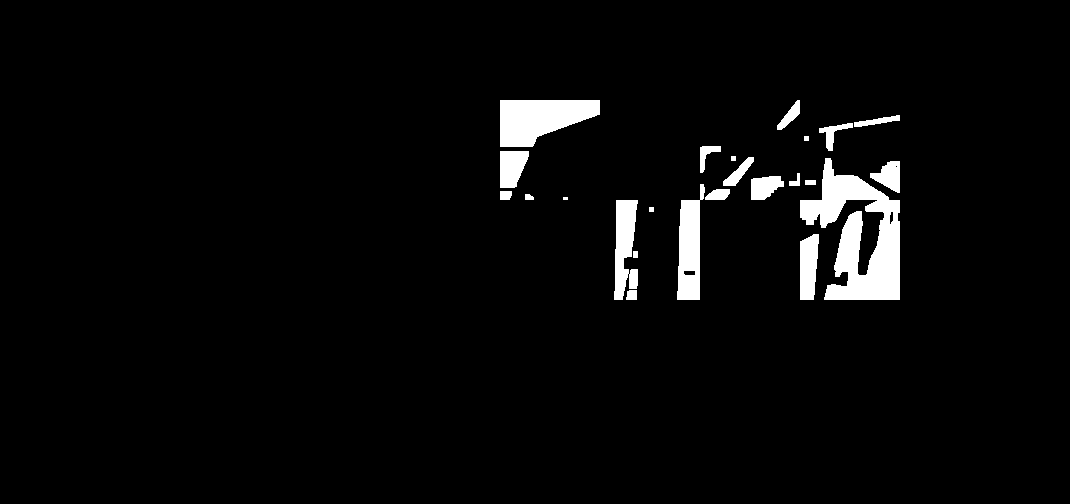
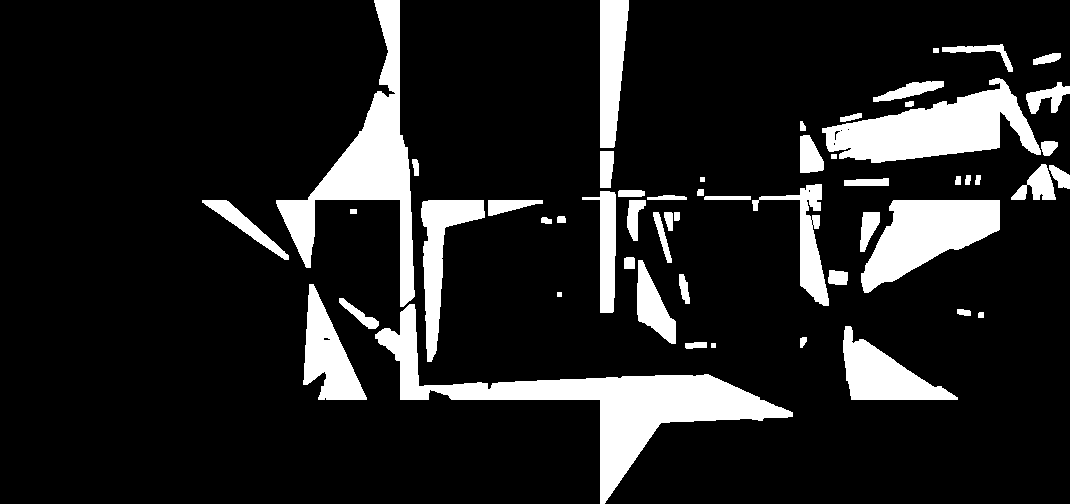
final commit

Changed region(s): [[0.185, 0.0, 1.0, 1.0], [0.771, 0.6548, 0.8944, 0.8036], [0.8944, 0.5952, 0.9252, 0.625]]

diff --git a/saize/final_saize.py b/saize/final_saize.py
@@ -1,76 +1,58 @@
-import numpy as np
 import cv2
-from matplotlib import pyplot as plt
-from utlis.show_image import show_1Img, show_2Img
-from utlis.clahe import apply_clahe_and_plot
-from ni import nitika_image
+import numpy as np
 
-def tirm_image(img, trim_per=10):
-    hei, wid = img.shape[:2]
-    trim_hei = int(hei * trim_per / 100)
-    trim_wid = int(wid * trim_per / 100)
-    trimmed_img = img[trim_hei: hei - trim_hei, trim_wid:wid - trim_wid]
-    return trimmed_img
+def local_feature_matching(img1, img2, grid_size=(2, 2)):
+    # SIFT特徴量抽出器の初期化
+    sift = cv2.SIFT_create()
 
-# --- 設定 ---
-image_path1 = r'img/image4.png'
-image_path2 = r'img/image3.png'
-block_size = 100
-MIN_MATCH_COUNT = 5
+    # 画像をグリッドに分割
+    h1, w1 = img1.shape[:2]
+    h2, w2 = img2.shape[:2]
+    cell_h1, cell_w1 = h1 // grid_size[0], w1 // grid_size[1]
+    cell_h2, cell_w2 = h2 // grid_size[0], w2 // grid_size[1]
 
-# --- 関数：特徴量マッチングと差分画像生成 ---
-def detect_and_diff(image1, image2, akaze):
-    h, w, _ = image1.shape
-    difference = np.zeros_like(image1)
-    for y in range(0, h, block_size):
-        for x in range(0, w, block_size):
-            block_h = min(block_size, h - y)
-            block_w = min(block_size, w - x)
-            block1 = image1[y:y + block_h, x:x + block_w]
-            block2 = image2[y:y + block_h, x:x + block_w]
+    all_matches = []
+    all_kp1 = []
+    all_kp2 = []
 
-            kp1, des1 = akaze.detectAndCompute(block1, None)
-            kp2, des2 = akaze.detectAndCompute(block2, None)
+    for i in range(grid_size[0]):
+        for j in range(grid_size[1]):
+            # 各グリッドセルの領域を定義
+            roi1 = img1[i*cell_h1:(i+1)*cell_h1, j*cell_w1:(j+1)*cell_w1]
+            roi2 = img2[i*cell_h2:(i+1)*cell_h2, j*cell_w2:(j+1)*cell_w2]
 
-            if des1 is not None and des2 is not None:
-                bf = cv2.BFMatcher(cv2.NORM_HAMMING, crossCheck=True)
-                matches = bf.match(des1, des2)
-                matches = sorted(matches, key=lambda x: x.distance)
-                good_matches = matches[:10]
+            # 各領域で特徴点と特徴量を抽出
+            kp1, des1 = sift.detectAndCompute(roi1, None)
+            kp2, des2 = sift.detectAndCompute(roi2, None)
 
-                if len(good_matches) >= MIN_MATCH_COUNT:
-                    src_pts = np.float32([kp1[m.queryIdx].pt for m in good_matches]).reshape(-1, 1, 2)
-                    dst_pts = np.float32([kp2[m.trainIdx].pt for m in good_matches]).reshape(-1, 1, 2)
-                    M, mask = cv2.findHomography(dst_pts, src_pts, cv2.RANSAC, 5.0)
-                    image2_aligned = cv2.warpPerspective(block2, M, (block_w, block_h))
-                    diff_block = cv2.absdiff(block1, image2_aligned)
-                    diff_block = cv2.cvtColor(diff_block, cv2.COLOR_BGR2GRAY)
-                    ret, diff_block = cv2.threshold(diff_block, 0, 255, cv2.THRESH_BINARY + cv2.THRESH_OTSU)
-                    kernel = np.ones((5, 5), np.uint8)
-                    diff_block = cv2.erode(diff_block, kernel, iterations=1)
-                    diff_block = cv2.dilate(diff_block, kernel, iterations=1)
-                    diff_block = cv2.cvtColor(diff_block, cv2.COLOR_GRAY2BGR)
-                    difference[y:y + block_h, x:x + block_w] = diff_block
-                else :
-                    print('good no')
-    return difference
+            # 特徴量マッチング
+            bf = cv2.BFMatcher()
+            matches = bf.knnMatch(des1, des2, k=2)
 
-# --- メイン処理 ---
+            # Lowe's ratio testを適用
+            good_matches = []
+            for m, n in matches:
+                if m.distance < 0.75 * n.distance:
+                    good_matches.append(m)
 
-# 画像を読み込む
-image1 = cv2.imread(image_path1)
-image2 = cv2.imread(image_path2)
+            # マッチング結果を全体のリストに追加
+            all_matches.extend(good_matches)
+            all_kp1.extend(kp1)
+            all_kp2.extend(kp2)
 
-# 元の AKAZE パラメータ
-akaze_default = cv2.AKAZE_create()
-difference_default = detect_and_diff(image1.copy(), image2.copy(), akaze_default)
-cv2.imwrite("difference_default.png", difference_default)
+    # マッチング結果の描画 (ループの外側で実行)
+    img_matches = cv2.drawMatches(img1, all_kp1, img2, all_kp2, all_matches, None, flags=cv2.DrawMatchesFlags_NOT_DRAW_SINGLE_POINTS)
 
-# 調整後の AKAZE パラメータ
-akaze_tuned = cv2.AKAZE_create(threshold=0.0001, nOctaves=5, nOctaveLayers=4)
-difference_tuned = detect_and_diff(image1.copy(), image2.copy(), akaze_tuned)
-cv2.imwrite("difference_tuned.png", difference_tuned)
+    return all_matches, img_matches
 
-# 結果表示 (コメントアウトを外して使用)
-show_1Img(difference_default, "Default AKAZE")
-show_1Img(difference_tuned, "Tuned AKAZE")
+# 画像の読み込み
+img1 = cv2.imread('img/image4.png', cv2.IMREAD_GRAYSCALE)
+img2 = cv2.imread('img/image3.png', cv2.IMREAD_GRAYSCALE)
+
+# 局所領域でのマッチング実行
+matches, img_matches = local_feature_matching(img1, img2)
+
+# 結果の表示
+cv2.imshow('Matches', img_matches)
+cv2.waitKey(0)
+cv2.destroyAllWindows()

diff --git a/saize/mapping_color.py b/saize/mapping_color.py
@@ -17,14 +17,14 @@ w_min = min(w_1, w_2)
 image1 = image1[0:h_min, 0:w_min]
 image2 = image2[0:h_min, 0:w_min]
 
-# グレースケールに変換
+# グレースケールに変換 (全体マッチング用)
 gray1 = cv2.cvtColor(image1, cv2.COLOR_BGR2GRAY)
 gray2 = cv2.cvtColor(image2, cv2.COLOR_BGR2GRAY)
 
 # CLAHEで明るさを揃える
 gray1_clahe, gray2_clahe = apply_clahe_and_plot(gray1, gray2)
 
-# AKAZEで特徴量検出
+# AKAZEで特徴量検出 (全体マッチング用)
 akaze = cv2.AKAZE_create()
 kp1, des1 = akaze.detectAndCompute(gray1_clahe, None)
 kp2, des2 = akaze.detectAndCompute(gray2_clahe, None)
@@ -54,42 +54,57 @@ if len(good) > MIN_MATCH_COUNT:
     M, mask = cv2.findHomography(dst_pts, src_pts, cv2.RANSAC, 5.0)
     matchesMask = mask.ravel().tolist()
 
-    h, w = gray1.shape
+    h, w, _ = image1.shape  # カラー画像のサイズを取得
     pts = np.float32([[0, 0], [0, h - 1], [w - 1, h - 1], [w - 1, 0]]).reshape(-1, 1, 2)
     dst = cv2.perspectiveTransform(pts, M)
 
-    image2_aligned = cv2.warpPerspective(gray2_clahe, M, (w, h))
-
-    # ノイズ除去
-    image2_aligned = cv2.GaussianBlur(image2_aligned, (5, 5), 0)
+    image2_aligned = cv2.warpPerspective(image2, M, (w, h))  # カラー画像を変換
 
     # 差分計算
-    block_size = 50
-    difference = np.zeros_like(gray1)
-    difference_without_morph = np.zeros_like(gray1)
+    block_size = 300
+    difference = np.zeros_like(gray1)  # gray1と同じサイズの差分画像
     for y in range(0, h, block_size):
         for x in range(0, w, block_size):
             block_h = min(block_size, h - y)
             block_w = min(block_size, w - x)
-            block1 = gray1_clahe[y:y + block_h, x:x + block_w]
-            block2 = image2_aligned[y:y + block_h, x:x + block_w]
+            block1 = image1[y:y + block_h, x:x + block_w]  # カラー画像のブロック
+            block2 = image2_aligned[y:y + block_h, x:x + block_w]  # カラー画像のブロック
 
-            # 差分
-            difference_block = cv2.absdiff(block1, block2)
-            difference_without_morph[y:y + block_h, x:x + block_w] = difference_block
+            # --- カラー画像で特徴量マッチング ---
+            # AKAZEで特徴量検出 (カラー画像用)
+            kp1_block, des1_block = akaze.detectAndCompute(block1, None)
+            kp2_block, des2_block = akaze.detectAndCompute(block2, None)
 
-            # モルフォロジー演算
-            kernel = np.ones((5, 5), np.uint8)
-            diff_block_erode = cv2.erode(difference_block, kernel, iterations=1)
-            diff_block_dilate = cv2.dilate(diff_block_erode, kernel, iterations=1)
+            # マッチング (ここではBrute-Force Matcherを使用)
+            bf = cv2.BFMatcher(cv2.NORM_HAMMING, crossCheck=True)
+            if des1_block is not None and des2_block is not None:
+                matches_block = bf.match(des1_block, des2_block)
 
-            difference[y:y + block_h, x:x + block_w] = diff_block_dilate
+                # マッチング結果からimage2_alignedに対応する部分を切り出す
+                if matches_block:
+                    # マッチング点の座標を取得
+                    src_pts_block = np.float32([kp1_block[m.queryIdx].pt for m in matches_block]).reshape(-1, 1, 2)
+                    dst_pts_block = np.float32([kp2_block[m.trainIdx].pt for m in matches_block]).reshape(-1, 1, 2)
 
-    # モルフォロジー処理をしない差分画像を保存
-    cv2.imwrite('difference_without_morph.png', difference_without_morph)
+                    # 変換行列を計算
+                    M_block, _ = cv2.findHomography(dst_pts_block, src_pts_block, cv2.RANSAC, 5.0)
+
+                    # image2_alignedをimage1に対応する部分に変換
+                    block2_warped = cv2.warpPerspective(block2, M_block, (block_w, block_h))
+
+                    # block1と変換後の画像の差分を計算 (カラー画像の差分)
+                    block_difference = cv2.absdiff(block1, block2_warped)
+
+                    # カラー画像の差分をグレースケールに変換
+                    block_difference_gray = cv2.cvtColor(block_difference, cv2.COLOR_BGR2GRAY)
+
+                    # 差分をdifferenceに保存
+                    difference[y:y + block_h, x:x + block_w] = block_difference_gray
+
+            # --- 差分計算ここまで ---
 
     # モルフォロジー処理後の差分画像を保存
-    cv2.imwrite('difference_with_morph.png', difference)
+    cv2.imwrite('difference.png', difference)
 
     # しきい値処理で差分の強調
     _, thresh = cv2.threshold(difference, 0, 255, cv2.THRESH_BINARY + cv2.THRESH_OTSU)
@@ -103,7 +118,7 @@ if len(good) > MIN_MATCH_COUNT:
 
     # 元画像に間違い部分を赤色で塗りつぶし
     image1_with_diff = image1.copy()
-    cv2.drawContours(image1_with_diff, contours, -1, (0, 0, 255), -1) # -1を指定して塗りつぶす
+    cv2.drawContours(image1_with_diff, contours, -1, (0, 0, 255), -1)
 
     # 結果を表示
     plt.imshow(cv2.cvtColor(image1_with_diff, cv2.COLOR_BGR2RGB))

diff --git a/saize/mapping.py b/saize/mapping.py
@@ -61,35 +61,54 @@ if len(good) > MIN_MATCH_COUNT:
     image2_aligned = cv2.warpPerspective(gray2_clahe, M, (w, h))
 
     # ノイズ除去
-    image2_aligned = cv2.GaussianBlur(image2_aligned, (5, 5), 0)
+    # image2_aligned = cv2.GaussianBlur(image2_aligned, (5, 5), 0)
 
     # 差分計算
-    block_size = 50
+    block_size = 300
     difference = np.zeros_like(gray1)
-    difference_without_morph = np.zeros_like(gray1)
     for y in range(0, h, block_size):
         for x in range(0, w, block_size):
             block_h = min(block_size, h - y)
             block_w = min(block_size, w - x)
             block1 = gray1_clahe[y:y + block_h, x:x + block_w]
-            block2 = image2_aligned[y:y + block_h, x:x + block_w]
 
-            # 差分
-            difference_block = cv2.absdiff(block1, block2)
-            difference_without_morph[y:y + block_h, x:x + block_w] = difference_block
+            # --- image2_alignedをimage1に対応する部分に変換して差分を計算 ---
+            # AKAZEで特徴量検出
+            kp1_block, des1_block = akaze.detectAndCompute(block1, None)
+            kp2, des2 = akaze.detectAndCompute(image2_aligned, None)
 
-            # モルフォロジー演算
-            kernel = np.ones((5, 5), np.uint8)
-            diff_block_erode = cv2.erode(difference_block, kernel, iterations=1)
-            diff_block_dilate = cv2.dilate(diff_block_erode, kernel, iterations=1)
+            # マッチング (ここではBrute-Force Matcherを使用)
+            bf = cv2.BFMatcher(cv2.NORM_HAMMING, crossCheck=True)
+            if des1_block is not None and des2 is not None:
+                matches_block = bf.match(des1_block, des2)
 
-            difference[y:y + block_h, x:x + block_w] = diff_block_dilate
+                # マッチング結果からimage2_alignedに対応する部分を切り出す
+                if matches_block:
+                    # マッチング点の座標を取得
+                    src_pts_block = np.float32([kp1_block[m.queryIdx].pt for m in matches_block]).reshape(-1, 1, 2)
+                    dst_pts_block = np.float32([kp2[m.trainIdx].pt for m in matches_block]).reshape(-1, 1, 2)
 
-    # モルフォロジー処理をしない差分画像を保存
-    cv2.imwrite('difference_without_morph.png', difference_without_morph)
+                    # 変換行列を計算
+                    M_block, _ = cv2.findHomography(dst_pts_block, src_pts_block, cv2.RANSAC, 5.0)
 
-    # モルフォロジー処理後の差分画像を保存
-    cv2.imwrite('difference_with_morph.png', difference)
+                    # image2_alignedをimage1に対応する部分に変換
+                    block2_warped = cv2.warpPerspective(image2_aligned, M_block, (block_w, block_h))
+
+                    # block1と変換後の画像の差分を計算
+                    block_difference = cv2.absdiff(block1, block2_warped)
+
+                    # 差分をdifferenceに保存
+                    difference[y:y + block_h, x:x + block_w] = block_difference
+
+                    # 差分画像を表示 (オプション)
+                    # plt.imshow(block_difference, cmap='gray')
+                    # plt.show()
+
+            # --- 差分計算ここまで ---
+
+
+    # モルフォロジー処理後の差分画像を保存 (difference_with_morph.png は不要になったため削除)
+    cv2.imwrite('difference.png', difference)
 
     # しきい値処理で差分の強調
     _, thresh = cv2.threshold(difference, 0, 255, cv2.THRESH_BINARY + cv2.THRESH_OTSU)
@@ -103,7 +122,7 @@ if len(good) > MIN_MATCH_COUNT:
 
     # 元画像に間違い部分を赤色で塗りつぶし
     image1_with_diff = image1.copy()
-    cv2.drawContours(image1_with_diff, contours, -1, (0, 0, 255), -1) # -1を指定して塗りつぶす
+    cv2.drawContours(image1_with_diff, contours, -1, (0, 0, 255), -1)
 
     # 結果を表示
     plt.imshow(cv2.cvtColor(image1_with_diff, cv2.COLOR_BGR2RGB))
